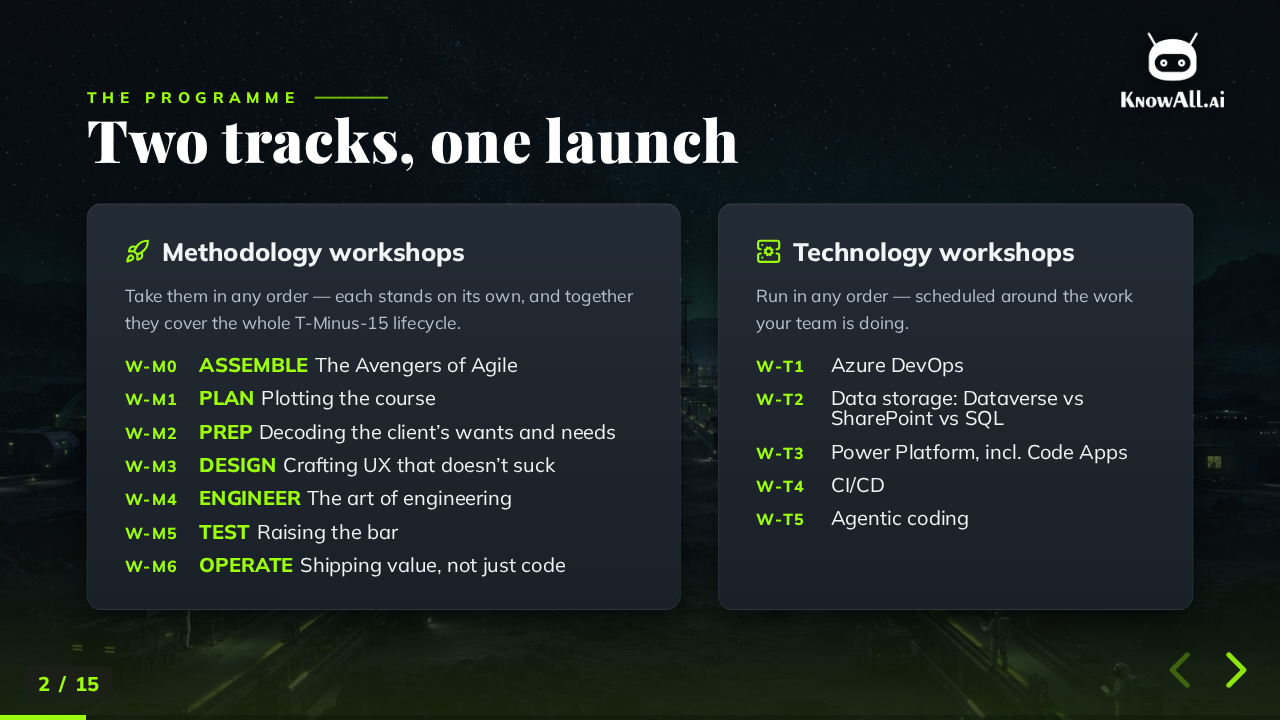
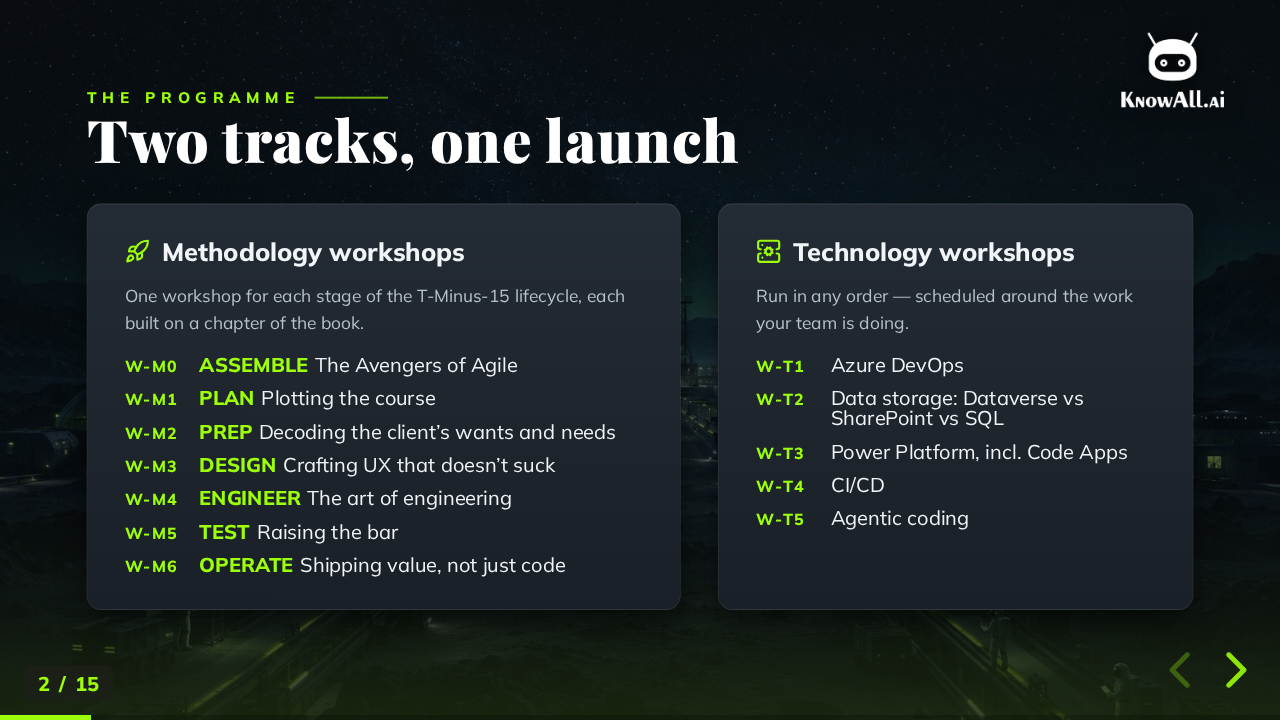
fix(presentations): say nothing about order for the methodology track
Slide 2's methodology card now reads "One workshop for each stage of the
T-Minus-15 lifecycle, each built on a chapter of the book", and the chat
site index drops "taken in any order". The technology track keeps
"any order".

Changed region(s): [[0.0938, 0.3972, 0.5, 0.4583]]

diff --git a/app/api/chat/site-index.ts b/app/api/chat/site-index.ts
@@ -27,7 +27,7 @@ Presentations (https://www.knowall.ai/presentations/) — our slide decks, each 
 - AI Discovery Workshop (https://www.knowall.ai/presentations/ai-discovery.html): the one-day workshop, €2,000 fixed price. Pre-work surveys, an on-site workshop, one-to-one interviews, a value-versus-effort prioritisation (quick wins, major projects, fill-ins, reconsider) and a report with lean business cases. The ideal first step before a Proto-Sprint or project. Best for: "where should we start with AI?", what the Discovery Day involves and costs, how we decide which ideas are worth doing, building a business case.
 - CISP, the Continuous Improvement Service Plan (https://www.knowall.ai/presentations/cisp.html): ongoing support after go-live via pre-purchased time-and-material blocks, typically a twelve-month term, covering Microsoft, AI and custom solutions. Tiers: Gold (4-hour response, 1 business day; Strategic €1,250/day, delivery roles €950/day), Silver (8 hours, 2 business days; €1,200 / €900), Bronze (16 hours, 3 business days; €1,150 / €850). Delivery roles: Prepper, Designer, Engineer, Tester, Operator, Scrum Master. Best for: support after go-live, how a CISP is priced, SLA response times, day rates, buying a block of hours instead of a project.
 - The Purple Team (https://www.knowall.ai/presentations/purple-team.html): continuous AI security. The CVE flood and CISA's exploited list, frontier models on defence, Pennie, Ollie and Poppie, the attack, defend, fix, report loop, advisory-to-merged-fix patching, safe-by-design rules, the tools it works with, the Purple Team Portal, hosted or in-tenant or fully sovereign, and paying by real hours on a CISP after a Security Discovery. Best for: how the Purple Team works, is it safe, where it runs, how it is paid for.
-- T-Minus-15 Workshops (https://www.knowall.ai/presentations/tminus15-workshops.html): capability-building workshops that teach a client's own team to deliver the T-Minus-15 way, one slide per workshop with its audience, description and topics. Seven methodology workshops for the whole delivery team, taken in any order, each built on the T-Minus-15 book: W-M0 Assemble: The Avengers of Agile (Agile, Scrum, Kanban, DevOps and assembling a cross-functional squad), W-M1 Plan: plotting the course (sprint goals, story point estimation, capacity, roadmaps and incremental releases), W-M2 Prep (decoding the client's wants and needs, the product backlog, epics, features and stories), W-M3 Design (crafting UX that doesn't suck, agentic design, brand guidelines), W-M4 Engineer (the art of engineering), W-M5 Test (raising the bar: acceptance criteria, test plans, automated, security, performance and user acceptance testing) and W-M6 Operate (shipping value: CI/CD, branching, infrastructure-as-code, release pipelines). Five technology workshops, in any order: W-T1 Azure DevOps, W-T2 Dataverse vs SharePoint vs SQL, W-T3 Power Platform including Code Apps (can run as a series), W-T4 CI/CD and W-T5 agentic coding with tools such as Claude Code. Best for: training a client's team in our methodology, which workshop suits which role, what each workshop covers.
+- T-Minus-15 Workshops (https://www.knowall.ai/presentations/tminus15-workshops.html): capability-building workshops that teach a client's own team to deliver the T-Minus-15 way, one slide per workshop with its audience, description and topics. Seven methodology workshops for the whole delivery team, one for each stage of the lifecycle and each built on the T-Minus-15 book: W-M0 Assemble: The Avengers of Agile (Agile, Scrum, Kanban, DevOps and assembling a cross-functional squad), W-M1 Plan: plotting the course (sprint goals, story point estimation, capacity, roadmaps and incremental releases), W-M2 Prep (decoding the client's wants and needs, the product backlog, epics, features and stories), W-M3 Design (crafting UX that doesn't suck, agentic design, brand guidelines), W-M4 Engineer (the art of engineering), W-M5 Test (raising the bar: acceptance criteria, test plans, automated, security, performance and user acceptance testing) and W-M6 Operate (shipping value: CI/CD, branching, infrastructure-as-code, release pipelines). Five technology workshops, in any order: W-T1 Azure DevOps, W-T2 Dataverse vs SharePoint vs SQL, W-T3 Power Platform including Code Apps (can run as a series), W-T4 CI/CD and W-T5 agentic coding with tools such as Claude Code. Best for: training a client's team in our methodology, which workshop suits which role, what each workshop covers.
 Prices are in euros as shown in the decks; for a quote, invite the visitor to email you (sallie@knowall.ai) or book a Discovery Day. Every deck's closing slide gives [hello@knowall.ai](mailto:hello@knowall.ai) as the contact.
 
 Our other products and sites (one line each; link them when they fit):

diff --git a/presentations-src/tminus15-workshops.html b/presentations-src/tminus15-workshops.html
@@ -308,7 +308,7 @@
             <div class="tm-tracks">
               <div class="tm-track">
                 <h3><svg class="ic" aria-hidden="true"><use href="icons.svg#i-rocket" /></svg>Methodology workshops</h3>
-                <p class="tm-rule">Take them in any order &mdash; each stands on its own, and together they cover the whole T-Minus-15 lifecycle.</p>
+                <p class="tm-rule">One workshop for each stage of the T-Minus-15 lifecycle, each built on a chapter of the book.</p>
                 <ol>
                   <li><span class="code">W-M0</span><span><span class="phase">ASSEMBLE</span>The Avengers of Agile</span></li>
                   <li><span class="code">W-M1</span><span><span class="phase">PLAN</span>Plotting the course</span></li>

diff --git a/public/presentations/tminus15-workshops.html b/public/presentations/tminus15-workshops.html
@@ -332,7 +332,7 @@
             <div class="tm-tracks">
               <div class="tm-track">
                 <h3><svg class="ic" aria-hidden="true"><use href="icons.svg#i-rocket" /></svg>Methodology workshops</h3>
-                <p class="tm-rule">Take them in any order &mdash; each stands on its own, and together they cover the whole T-Minus-15 lifecycle.</p>
+                <p class="tm-rule">One workshop for each stage of the T-Minus-15 lifecycle, each built on a chapter of the book.</p>
                 <ol>
                   <li><span class="code">W-M0</span><span><span class="phase">ASSEMBLE</span>The Avengers of Agile</span></li>
                   <li><span class="code">W-M1</span><span><span class="phase">PLAN</span>Plotting the course</span></li>
